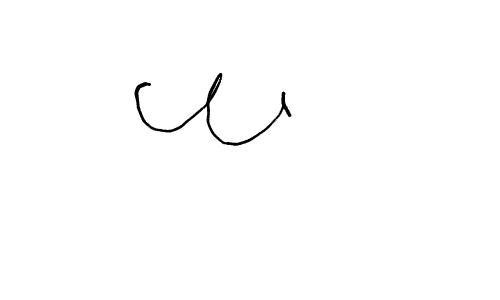
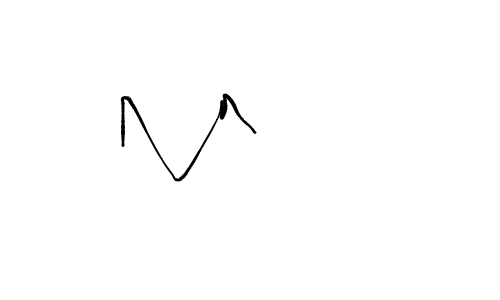
product order final

diff --git a/src/main/java/kr/co/ictedu/projectBack/service/OrderService.java b/src/main/java/kr/co/ictedu/projectBack/service/OrderService.java
@@ -21,20 +21,24 @@ public class OrderService {
 	public void addOrder(OrderFormVO ofvo) {
 		orderDao.addOrderForm(ofvo);
 		
-		int ofnumSeq = ofvo.getOfnum(); 
-		int sum_num = 1;
-		
+		int index = 0;
+		int fk = orderDao.fkSelect();
+						
 		List<OrderItemVO> list = ofvo.getOrderItem();
 		for (OrderItemVO itemvo : list) {
 			int price = itemvo.getOiprice();
 			int amount = itemvo.getOiamount();
 			int sumprice = price * amount;
 			itemvo.setOisumprice(sumprice);
-			itemvo.setOfnum(ofnumSeq);
-			itemvo.setOinum(sum_num);
-			sum_num++;
+			/*
+				fk를 자식테이블에 할당하는 비지니스 로직
+				1. 부모 테이블의 Vo에서 직접 fk를 추출하여 자식 테이블에 fk에 해당되는 프로퍼티에 값을 바인딩
+				insert all문에서는 반드시 fk를 select key 속성을 통해 fk를 추출해야 작동됨을 확인 
+			*/
+			itemvo.setOfnum(fk);
+			orderDao.addOrderItem(list.get(index));
+			index++;
 		}
-		ofvo.setMnum(5);
-		orderDao.addOrderItem(list);
+		//ofvo.setMnum(5);
 	}
 }

diff --git a/src/main/java/kr/co/ictedu/projectBack/controller/ProductController.java b/src/main/java/kr/co/ictedu/projectBack/controller/ProductController.java
@@ -2,13 +2,13 @@ package kr.co.ictedu.projectBack.controller;
 
 import org.springframework.beans.factory.annotation.Autowired;
 import org.springframework.web.bind.annotation.RequestMapping;
-import org.springframework.web.bind.annotation.RequestPart;
 import org.springframework.web.bind.annotation.RestController;
 
 import kr.co.ictedu.projectBack.service.ProductService;
 import kr.co.ictedu.projectBack.vo.ProductFormVO;
 
 import org.springframework.web.bind.annotation.PostMapping;
+import org.springframework.web.bind.annotation.RequestBody;
 
 
 @RestController
@@ -19,7 +19,7 @@ public class ProductController {
 	private ProductService productService;
 	
 	@PostMapping("/productForm")
-	public void handleProductSubmit(@RequestPart("productData") ProductFormVO productFormVO) {
+	public void handleProductSubmit(@RequestBody ProductFormVO productFormVO) {
 		productService.addProduct(productFormVO);
 	}
 }

diff --git a/src/main/java/kr/co/ictedu/projectBack/service/ProductService.java b/src/main/java/kr/co/ictedu/projectBack/service/ProductService.java
@@ -7,6 +7,7 @@ import org.springframework.stereotype.Service;
 import org.springframework.transaction.annotation.Transactional;
 
 import kr.co.ictedu.projectBack.dao.ProductDao;
+import kr.co.ictedu.projectBack.vo.OrderItemVO;
 import kr.co.ictedu.projectBack.vo.ProductFormVO;
 import kr.co.ictedu.projectBack.vo.ProductItemVO;
 
@@ -20,7 +21,20 @@ public class ProductService {
 	@Transactional
 	public void addProduct(ProductFormVO pfvo) {
 		productDao.addProductForm(pfvo);
+		
+		int index = 0;
+		int fk = productDao.fkSelect1();
+		
 		List<ProductItemVO> list = pfvo.getProductItem();
-		productDao.addProductItem(list);
+		for (ProductItemVO itemvo : list) {
+			int price = itemvo.getPiprice();
+			int amount = itemvo.getPiamount();
+			int sumprice = price * amount;
+			itemvo.setPisumprice(sumprice);
+			
+			itemvo.setPfnum(fk);
+			productDao.addProductItem(list.get(index));
+			index++;
+		}
 	}
 }

diff --git a/src/main/java/kr/co/ictedu/projectBack/vo/ProductItemVO.java b/src/main/java/kr/co/ictedu/projectBack/vo/ProductItemVO.java
@@ -16,5 +16,6 @@ public class ProductItemVO {
 	private int piprice;		// 단가
 	private int piamount;		// 수량
 	private int pisumprice;		// 1행의 합계 가격(가격 * 수량)
-	private String pipublisher; // 출판사
+	private int piunitCost;		// 원가(도매단가)
+	private int pfnum;			// pk
 }

diff --git a/src/main/java/kr/co/ictedu/projectBack/dao/ProductDao.java b/src/main/java/kr/co/ictedu/projectBack/dao/ProductDao.java
@@ -12,5 +12,6 @@ import kr.co.ictedu.projectBack.vo.ProductItemVO;
 public interface ProductDao {
 
 	void addProductForm(ProductFormVO pfvo);
-	void addProductItem(List<ProductItemVO> plist);	
+	void addProductItem(ProductItemVO pivo);	
+	int fkSelect1();
 }

diff --git a/src/main/java/kr/co/ictedu/projectBack/dao/OrderDao.java b/src/main/java/kr/co/ictedu/projectBack/dao/OrderDao.java
@@ -12,6 +12,7 @@ import kr.co.ictedu.projectBack.vo.OrderItemVO;
 public interface OrderDao {
 
 	void addOrderForm(OrderFormVO ofvo);
-	void addOrderItem(List<OrderItemVO> olist);
+	void addOrderItem(OrderItemVO oivo);
+	int fkSelect();
 
 }
